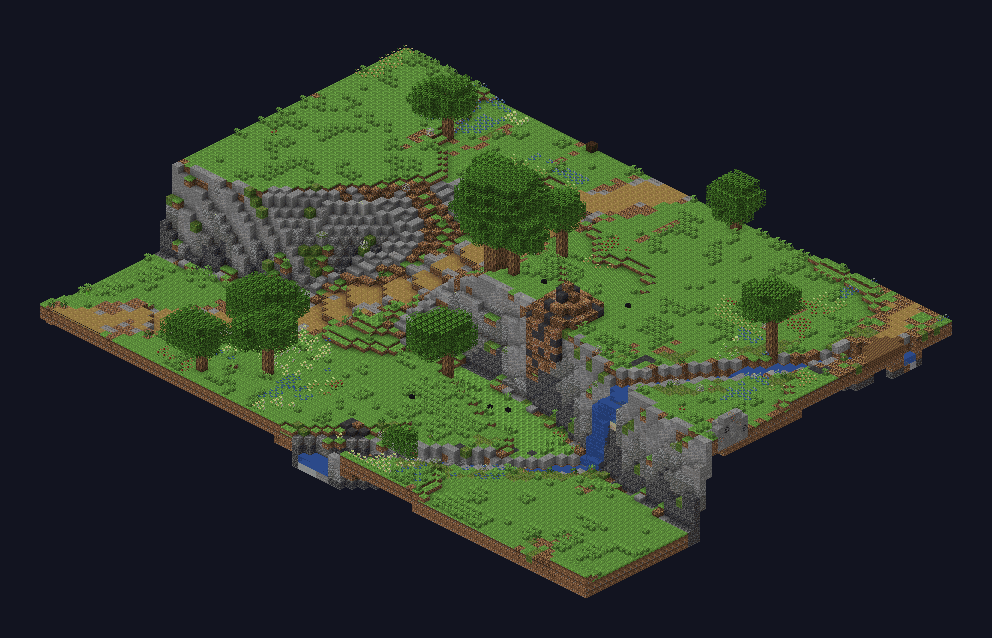
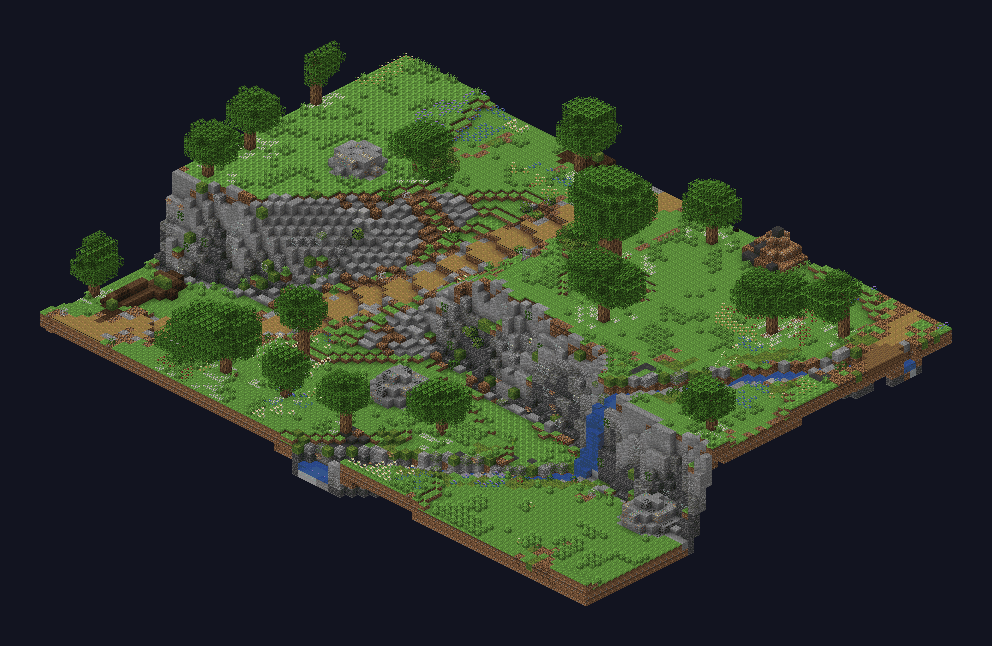
Proposals: field500 - jagged scarps with mixed step heights, talus at cliff feet, face details, woodland edges, leaf litter

Changed region(s): [[0.0312, 0.0596, 0.9688, 0.9232]]

diff --git a/docs/proposals/world-prototype/field500/index.html b/docs/proposals/world-prototype/field500/index.html
@@ -54,6 +54,10 @@ small.cap { color: var(--muted); font-size: .8rem }
       <li>崖は、上と外側に明るい石（石・安山岩）、真ん中につなぎの石（砂利・凝灰岩・丸石）、下とくぼみに暗い石（深層岩）。横じまにせず、縦の不規則なすじにする。苔は上のふちから水が伝うように縦に垂らす。</li>
       <li>水辺は草を水ぎわまで残し、砂の帯を作らない。底は砂利と粘土。道は中央が踏み固めた土、縁ほど砂利と粗い土。</li>
       <li>草花は全体に薄くまかず、草はかたまり、花は1種類ずつの群れ、森の中は羊歯。丘には苔むした小石を少し。</li>
+      <li>（今回追加）自然の地形でまっすぐな線を7ブロック以上続けない。段の高さは1〜3ブロックを混ぜる。</li>
+      <li>（今回追加）崖の足元には崩れ落ちた石の山（ガレ場）がある。砂利・丸石を下地に、ところどころ苔むした小岩。</li>
+      <li>（今回追加）崖面の仕上げは苔・光る地衣類・つる・垂れ根。滝の下は上より荒らす（砂利の縁、苔石）。</li>
+      <li>（今回追加）森の縁は段々に：草地 → 茂み → 若木 → 大木。木の下に落ち葉。</li>
     </ol>
     <div class="src">
       <a href="https://polystruct.github.io/creative/worldpainter/custom.html" target="_blank" rel="noopener">WorldPainter カスタム地形の例（配合）</a>
@@ -62,14 +66,20 @@ small.cap { color: var(--muted); font-size: .8rem }
       <a href="https://minecraftgradient.blog/deepslate-to-stone-gradient/" target="_blank" rel="noopener">崖のグラデーション（縦のすじ）</a>
       <a href="https://blockblend.app/guides/minecraft-terrain-gradients" target="_blank" rel="noopener">地形のグラデーション配合</a>
       <a href="https://www.minecraft.net/en-us/article/tutorial--tips-for-landscaping-and-terraforming" target="_blank" rel="noopener">minecraft.net 造園と地形のコツ（水辺）</a>
+      <a href="https://ender-chest.com/building/minecraft-terraforming-landscaping-guide" target="_blank" rel="noopener">EnderChest 地形ガイド（7ブロック・下地/混ぜ/仕上げ）</a>
+      <a href="https://en.wikipedia.org/wiki/Scree" target="_blank" rel="noopener">ガレ場（崖下の崩落石）</a>
+      <a href="https://en.wikipedia.org/wiki/Woodland_edge" target="_blank" rel="noopener">森の縁（茂み→若木→大木）</a>
     </div>
   </section>
   <small class="cap">ゲームの外で、本物のブロックの絵を使って描いた試作。モブは形と色だけの仮置き。</small>
 </div>
 <script>
 const SHOTS = [
-  { id: "scarp", tab: "崖の肌（新）", img: "f5-scarp.png", title: "崖の肌：下が暗く上が明るい、縦のすじ", text: "段の崖。下とくぼみは深層岩・凝灰岩、上は安山岩・石。縦にすじが入り、横じまにならない。ふちから苔と草が少し垂れる。足元の草地は草のかたまりと、1種類ずつの花の群れ。", lv: "新" },
-  { id: "ramp", tab: "崖と坂（新）", img: "f5-ramp.png", title: "段と坂（新しい材料）", text: "同じ場所の前の版は次のタブ。草地に草のかたまりと花の群れ、道は中央が土で縁が砂利と粗い土、崖は暗い下から明るい上へ。", lv: "新" },
+  { id: "scarp", tab: "崖（今回）", img: "f5-scarp.png", title: "崖：ギザギザの線、崩れた石、光る地衣類", text: "崖の線を細かくジグザグにし、まっすぐな段が7ブロック以上続かないようにした。段の高さも1〜3ブロックでばらばら。崖の足元には崩れ落ちた石（砂利・丸石・苔石の小岩）が溜まり、崖面には光る地衣類・垂れ根・つる。", lv: "今回" },
+  { id: "scarp1", tab: "崖（前回）", img: "v2-scarp.png", title: "崖（前回）", text: "前回。縦のすじと明暗はあるが、崖の線がまっすぐで階段が規則的。", lv: "前回" },
+  { id: "gap", tab: "中段（今回）", img: "f5-gap.png", title: "中段：森の縁と足元", text: "森と草地の境目に茂みと若木を置き、いきなり大木が立たないようにした。木の下には落ち葉。崖の線も入り組んだ。", lv: "今回" },
+  { id: "gap1", tab: "中段（前回）", img: "v2-gap.png", title: "中段（前回）", text: "前回。", lv: "前回" },
+  { id: "ramp", tab: "崖と坂（今回）", img: "f5-ramp.png", title: "段と坂（今回）", text: "最初の版は次のタブ。", lv: "今回" },
   { id: "ramp0", tab: "崖と坂（前）", img: "before-ramp.png", title: "段と坂（前の版）", text: "前の版。地面は草ばかりで、崖は石の横じま。", lv: "前" },
   { id: "gap", tab: "中段（新）", img: "f5-gap.png", title: "中段の一角（新しい材料）", text: "草地は草・粗い土・苔のかたまり、森の近くはポドゾルと羊歯。", lv: "新" },
   { id: "gap0", tab: "中段（前）", img: "before-gap.png", title: "中段の一角（前の版）", text: "前の版。", lv: "前" },

diff --git a/scripts/world_prototype/field500.py b/scripts/world_prototype/field500.py
@@ -68,8 +68,10 @@ n2 = np.asarray(Image.fromarray(np.random.default_rng(6).random((1, 12)).astype(
 B1 = 345 + (n1 - .5) * 30          # low / mid scarp (z, per x)
 B2 = 172 + (n2 - .5) * 30          # mid / high scarp
 CLIFF_Z = np.broadcast_to(B2[None, :], (B, B))
-step1 = np.clip((B1[None, :] - zz) / 3 + .5, 0, 1)    # 1 north of B1
-step2 = np.clip((B2[None, :] - zz) / 3 + .5, 0, 1)    # 1 north of B2
+jag = (fbm(4, 40, .55, 61) - .5) * 9 + (fbm(3, 90, .5, 62) - .5) * 3          # notches every few blocks
+width = 2 + fbm(4, 25, .5, 63) * 5                                              # some faces sheer, some broken into steps
+step1 = np.clip((B1[None, :] + jag - zz) / width + .5, 0, 1)    # 1 north of B1
+step2 = np.clip((B2[None, :] + jag * .8 - zz) / width + .5, 0, 1)    # 1 north of B2
 H = LOW + (MID - LOW) * step1 + (HIGH - MID) * step2
 H += (fbm(5, 3, .5, 1) - .5) * 7 + (fbm(4, 9, .5, 2) - .5) * 3           # gentle rolls inside each level
 H += bump(*TREE, 75, 65, 12)                                              # the tree hill
@@ -215,6 +217,11 @@ for z in range(B):
             continue
         if stream[z, x]:
             put(x, h - 1, z, TM.bed_block(x, z)); put(x, h, z, "water_still", shape="water")
+            if slope[z, x] > 1.0:                                         # a fall: rough up the pool edge below it
+                for dx, dz in ((1, 0), (-1, 0), (0, 1), (0, -1), (1, 1), (-1, 1)):
+                    a, b = x + dx, z + dz
+                    if 0 <= a < B and 0 <= b < B and not stream[b, a] and not road[b, a]:
+                        put(a, hi[b, a], b, R.choice(["gravel", "mossy_cobblestone", "moss_block", "cobblestone"]))
             up = max([hi[z + dz, x + dx] for dx in (-1, 0, 1) for dz in (-1, 0, 1)
                       if 0 <= x + dx < B and 0 <= z + dz < B and stream[z + dz, x + dx]] + [h])
             for y in range(h + 1, up): put(x, y, z, "water_still")          # waterfall down the scarp
@@ -241,6 +248,35 @@ for z in range(B):
             ups = [hi[z + dz, x + dx] for dx, dz in ((1, 0), (-1, 0), (0, 1), (0, -1)) if 0 <= x + dx < B and 0 <= z + dz < B]
             if any(u == h + 1 for u in ups):
                 put(x, h + 1, z, top[0], top[-1], shape="slab")
+
+
+# talus: rockfall piles where a face meets the ground below it
+from collections import Counter as _C
+TALUS = ["gravel", "gravel", "cobblestone", "andesite", "stone", "tuff", "mossy_cobblestone"]
+for z in range(2, B - 2):
+    for x in range(2, B - 2):
+        if slope[z, x] > 1.0 or road_d[z, x] < 4 or path_d[z, x] < 3 or lake[z, x] or stream[z, x]: continue
+        up = max(hi[z + dz, x + dx] for dx in (-2, -1, 0, 1, 2) for dz in (-2, -1, 0, 1, 2))
+        if up - hi[z, x] < 5: continue                                # only right below a real face
+        n = noise3(x, 0, z, 371, 2.5)
+        if n < .42: continue
+        g = hi[z, x]
+        put(x, g, z, R.choice(TALUS))
+        if n > .6 and _h(x, 1, z, 52) < .35:                          # a fallen boulder, sometimes two high, mossy on top
+            put(x, g + 1, z, R.choice(["cobblestone", "andesite", "stone", "mossy_cobblestone"]))
+            if n > .72 and _h(x, 2, z, 53) < .4: put(x, g + 2, z, "moss_block" if _h(x, 3, z, 54) < .5 else "mossy_cobblestone", shape="slab")
+        elif _h(x, 4, z, 55) < .15:
+            put(x, g + 1, z, "stone", shape="slab")
+for z in range(1, B - 1):
+    for x in range(1, B - 1):
+        if slope[z, x] <= 1.3: continue
+        h = hi[z, x]
+        for y in range(hi[z + 1, x] + 1, h + 1):                      # the face looking south (toward the camera)
+            if (x, y, z + 1) in w.b: continue
+            r3 = _h(x, y, z, 56)
+            if r3 < .025: put(x, y, z + 1, "glow_lichen", shape="shut_s")
+            elif r3 < .04 and y > h - 3: put(x, y, z + 1, "hanging_roots", shape="shut_s")
+            elif r3 < .07 and y > h - 2: put(x, y, z + 1, "vine", shape="shut_s")
 
 
 # ---------------- shared builders ----------------
@@ -1154,14 +1190,49 @@ west = np.clip((150 - xx) / 120, 0, 1)
 north = np.clip((60 - zz) / 60, 0, 1)
 treehill = np.exp(-(((xx - TREE[0]) / 90) ** 2 + ((zz - TREE[1]) / 80) ** 2))
 dens = np.clip((forest - .48) * 2 + west * .8 + north * .5 + treehill * .35, 0, 1) ** 1.6 * .035 + .0025
+def young_tree(x, z):
+    if not (2 <= x < B - 3 and 2 <= z < B - 3) or used[z, x] or anyway[z, x] < 3 or lake[z, x] or stream[z, x] or slope[z, x] > 1.0: return
+    g = at(x, z); th = R.randint(2, 4)
+    for y in range(g + 1, g + th + 1): put(x, y, z, *LOG("oak_log"))
+    for dx in range(-2, 3):
+        for dz in range(-2, 3):
+            for dy in range(-1, 2):
+                if dx * dx + dz * dz + dy * dy * 2 <= 4.5 + R.random() * 2 and (x + dx, g + th + dy, z + dz) not in w.b:
+                    put(x + dx, g + th + dy, z + dz, R.choice(["oak_leaves", "oak_leaves", "azalea_leaves"]))
+    mark(x - 1, z - 1, x + 1, z + 1)
+
+
+def bush_clump(x, z):
+    if not (2 <= x < B - 3 and 2 <= z < B - 3) or used[z, x] or anyway[z, x] < 3 or lake[z, x] or stream[z, x]: return
+    for _ in range(R.randint(2, 5)):
+        a, b = x + R.randint(-1, 1), z + R.randint(-1, 1)
+        y = at(a, b) + 1
+        if (a, y, b) not in w.b:
+            put(a, y, b, R.choice(["oak_leaves", "azalea_leaves", "flowering_azalea_leaves", "bush"]),
+                shape="plant" if R.random() < .25 else ("slab" if R.random() < .4 else "full"))
+
+
+EDGE_LO, EDGE_HI = .006, .02
 for z in range(4, B - 4):
     for x in range(4, B - 4):
+        dz_ = dens[z, x]
+        if EDGE_LO < dz_ < EDGE_HI:                                   # the woodland edge: low cover in front of the trees
+            r2 = R.random()
+            if r2 < .004: young_tree(x, z)
+            elif r2 < .02: bush_clump(x, z)
+            continue
         if R.random() < dens[z, x]:
             if x > CLIFF_X - 4: oak(x, z, "spruce")
             elif west[z, x] > .3 and R.random() < .55: oak(x, z, "dark", big=R.random() < .3)
             elif treehill[z, x] > .4 and R.random() < .4: oak(x, z, "birch")
             else: oak(x, z, "oak", big=R.random() < .08)
 scatter_plants(70, 280, 70, .05, ["fern", "short_grass", "brown_mushroom", "leaf_litter"])
+# leaf litter under canopies: find ground cells shaded by leaves within 6 blocks above
+for (x, y, z), v in list(w.b.items()):
+    if v[1] in ("oak_leaves", "dark_oak_leaves", "birch_leaves") and y - at(x, z) <= 9 and _h(x, y, z, 51) < .12:
+        g = at(x, z)
+        if (x, g + 1, z) not in w.b and w.b.get((x, g, z), ("", "", ""))[1] in ("grass_block_top", "podzol_top", "coarse_dirt", "moss_block"):
+            put(x, g + 1, z, "leaf_litter", shape="carpet")
 scatter_plants(250, 250, 240, .006, ["poppy", "dandelion", "short_grass", "short_grass"])
 # ground cover in clumps and drifts: grass tufts where the clump noise is high, flowers in single-species drifts,
 # ferns in shade and damp ground, a few small mossy stones on the hills

diff --git a/scripts/world_prototype/iso.py b/scripts/world_prototype/iso.py
@@ -5,7 +5,7 @@ import numpy as np
 
 TEX = Path(__file__).parent / "tex"
 TINT = {"grass_block_top": (124, 189, 80), "oak_leaves": (89, 150, 52), "spruce_leaves": (97, 140, 86),
-        "birch_leaves": (128, 167, 85), "tall_grass_top": (124, 189, 80), "tall_grass_bottom": (124, 189, 80), "short_grass": (124, 189, 80), "large_fern_top": (100, 160, 70), "pink_petals_stem": (255,255,255), "dark_oak_leaves": (70, 118, 40), "fern": (100, 160, 70), "vine": (80, 140, 50), "lily_pad": (60, 150, 60), "vine": (80, 140, 50), "jungle_leaves": (70, 160, 40), "moss_carpet": (255, 255, 255),
+        "birch_leaves": (128, 167, 85), "glow_lichen": (255,255,255), "tall_grass_top": (124, 189, 80), "tall_grass_bottom": (124, 189, 80), "short_grass": (124, 189, 80), "large_fern_top": (100, 160, 70), "pink_petals_stem": (255,255,255), "dark_oak_leaves": (70, 118, 40), "fern": (100, 160, 70), "vine": (80, 140, 50), "lily_pad": (60, 150, 60), "vine": (80, 140, 50), "jungle_leaves": (70, 160, 40), "moss_carpet": (255, 255, 255),
         "water_still": (63, 118, 228), "vine": (89, 150, 52), "short_grass": (124, 189, 80)}
 _cache = {}
 
